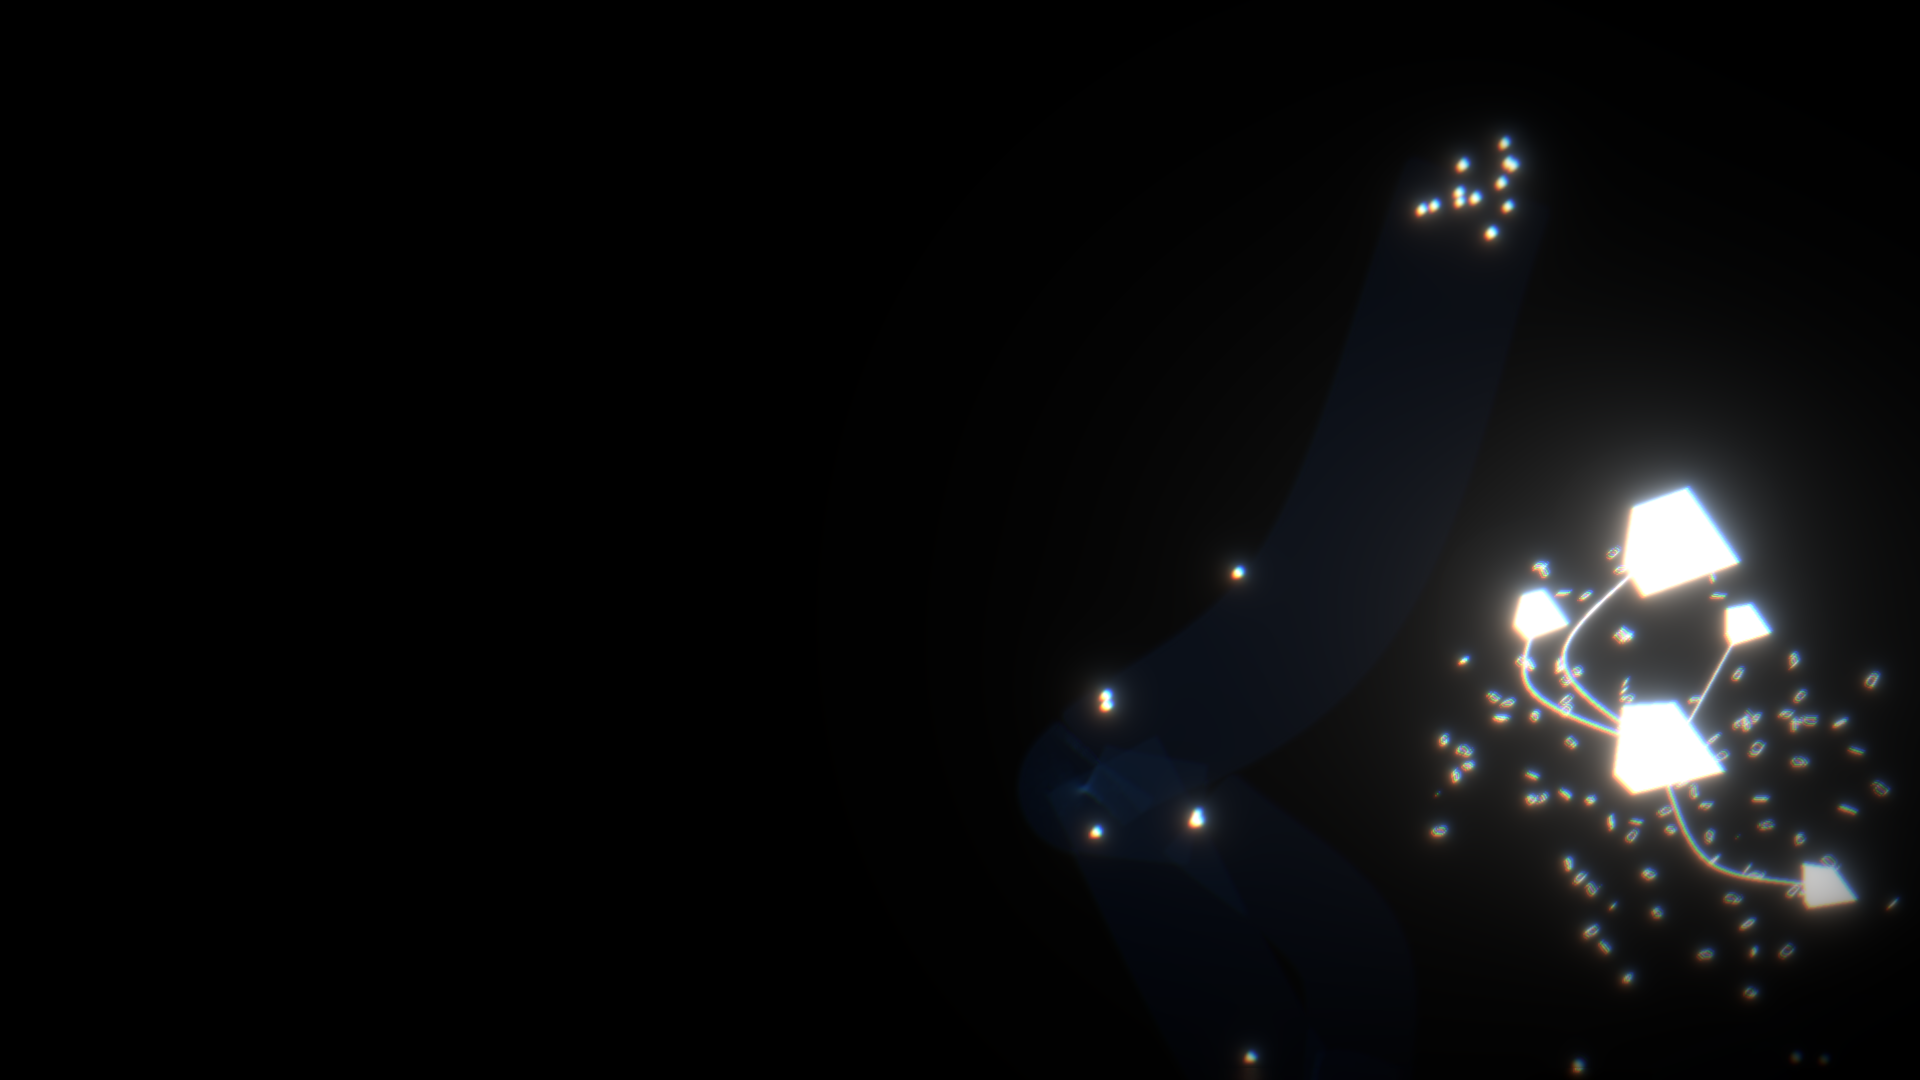
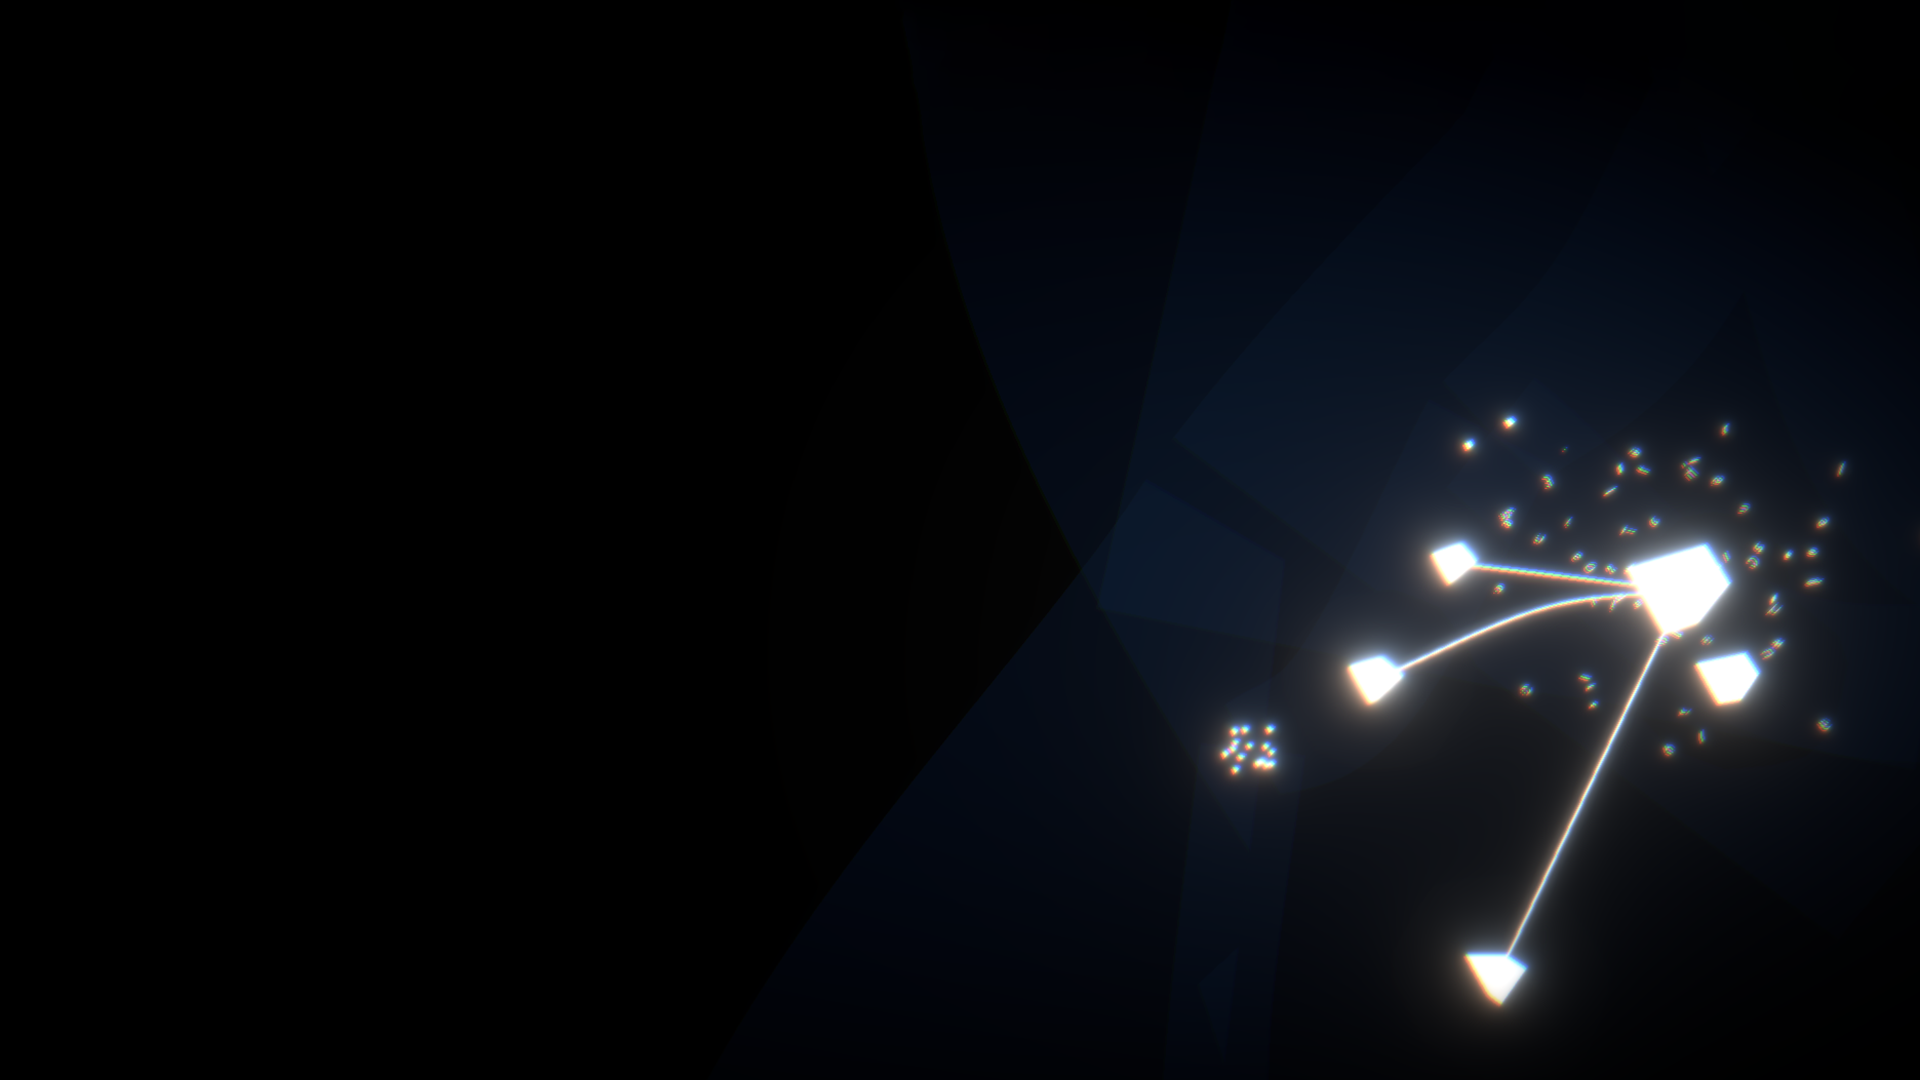
Fix: Update main_bg image

diff --git a/src/routes/submit/+page.svelte b/src/routes/submit/+page.svelte
@@ -282,74 +282,74 @@
 				<span id="question-label-main">{question}</span>
 			</div>
 
-		<div class="input-container" 
-		out:slide={{ duration: transitionDuration }}
-		>
-			<Textarea
-				name={$_('submit_input_placeholder', { default: 'Your story' })}
-				bind:textValue={story}
-				debounceTime={typingTimer}
-				labelId="question-label-main"
-				bind:typingActive={isTyping}
-			/>
-		</div>
-		<!-- Suggestions -->
-		<div class="suggestions-container">
-			{#if suggestionState !== 'off'}
-				<div 
-				in:slide={{ duration: transitionDuration }}
-				out:slide={{ duration: transitionDuration }}
-				></div>
-			{/if}
-			<!-- Show warning if story is too short -->
-			{#if suggestionState === 'warning'}
-				<div class="warning-bubble bubble" 
-				in:slide={{ duration: transitionDuration }} 
-				out:slide={{ duration: transitionDuration }}
-				>
-					<p>
-						{#if story.length === 0}
-							{$_('submit_type_story')}
-						{:else}
-							{$_('submit_type_more')}
-						{/if}
+			<div class="input-container" out:slide={{ duration: transitionDuration }}>
+				<Textarea
+					name={$_('submit_input_placeholder', { default: 'Your story' })}
+					bind:textValue={story}
+					debounceTime={typingTimer}
+					labelId="question-label-main"
+					bind:typingActive={isTyping}
+				/>
+			</div>
+			<!-- Suggestions -->
+			<div class="suggestions-container">
+				{#if suggestionState !== 'off'}
+					<div
+						in:slide={{ duration: transitionDuration }}
+						out:slide={{ duration: transitionDuration }}
+					></div>
+				{/if}
+				<!-- Show warning if story is too short -->
+				{#if suggestionState === 'warning'}
+					<div
+						class="warning-bubble bubble"
+						in:slide={{ duration: transitionDuration }}
+						out:slide={{ duration: transitionDuration }}
+					>
+						<p>
+							{#if story.length === 0}
+								{$_('submit_type_story')}
+							{:else}
+								{$_('submit_type_more')}
+							{/if}
+						</p>
+					</div>
+				{/if}
+				<!-- Show loader when waiting for suggestions -->
+				{#if suggestionState === 'loading'}
+					<div
+						class="loader-bubble bubble"
+						in:slide={{ duration: transitionDuration }}
+						out:slide={{ duration: transitionDuration }}
+					>
+						<Loader color="white" pulseSize="30px" pulseTiming="1s" />
+					</div>
+				{/if}
+				<!-- Show suggestion if user has typed something -->
+				{#if suggestionState === 'ok'}
+					<div
+						in:slide={{ duration: transitionDuration }}
+						out:slide={{ duration: transitionDuration }}
+						class="suggestions-bubble bubble"
+					>
+						<p>{$_('submit_please_extend')}</p>
+						<br />
+						<p>{suggestion}</p>
+					</div>
+				{/if}
+				<!-- Show thank you message if user has finished the story -->
+				{#if suggestionState === 'done'}
+					<p
+						in:slide={{ duration: transitionDuration }}
+						out:blur={{ duration: thankYouFadeTimer }}
+						class="thank-you-bubble bubble"
+					>
+						{$_('submit_acknowlegment')}
 					</p>
-				</div>
-			{/if}
-			<!-- Show loader when waiting for suggestions -->
-			{#if suggestionState === 'loading'}
-				<div class="loader-bubble bubble" 
-				in:slide={{ duration: transitionDuration }} 
-				out:slide={{ duration: transitionDuration }}
-				>
-					<Loader color="white" pulseSize="30px" pulseTiming="1s" />
-				</div>
-			{/if}
-			<!-- Show suggestion if user has typed something -->
-			{#if suggestionState === 'ok'}
-				<div
-					in:slide={{ duration: transitionDuration }}
-					out:slide={{ duration: transitionDuration }}
-					class="suggestions-bubble bubble"
-				>
-					<p>{$_('submit_please_extend')}</p>
-					<br />
-					<p>{suggestion}</p>
-				</div>
-			{/if}
-			<!-- Show thank you message if user has finished the story -->
-			{#if suggestionState === 'done'}
-				<p
-					in:slide={{ duration: transitionDuration }}
-					out:blur={{ duration: thankYouFadeTimer }}
-					class="thank-you-bubble bubble"
-				>
-					{$_('submit_acknowlegment')}
-				</p>
-			{/if}
-		</div>
-		<!-- Input Area -->
-	{/if}
+				{/if}
+			</div>
+			<!-- Input Area -->
+		{/if}
 	</div>
 	<!-- Actions -->
 
@@ -498,6 +498,22 @@
 				'actions-area';
 			grid-template-columns: 1fr;
 			grid-template-rows: max-content max-content;
+		}
+
+		.card-bg-container {
+			display: flex;
+			flex: 1;
+			max-width: 100%;
+			width: 100%;
+			max-height: 100%;
+			min-height: 100vh;
+			position: absolute;
+			top: 0;
+			left: 0;
+			right: 0;
+			bottom: 0;
+
+			z-index: 0;
 		}
 
 		.card-left-col-container {
